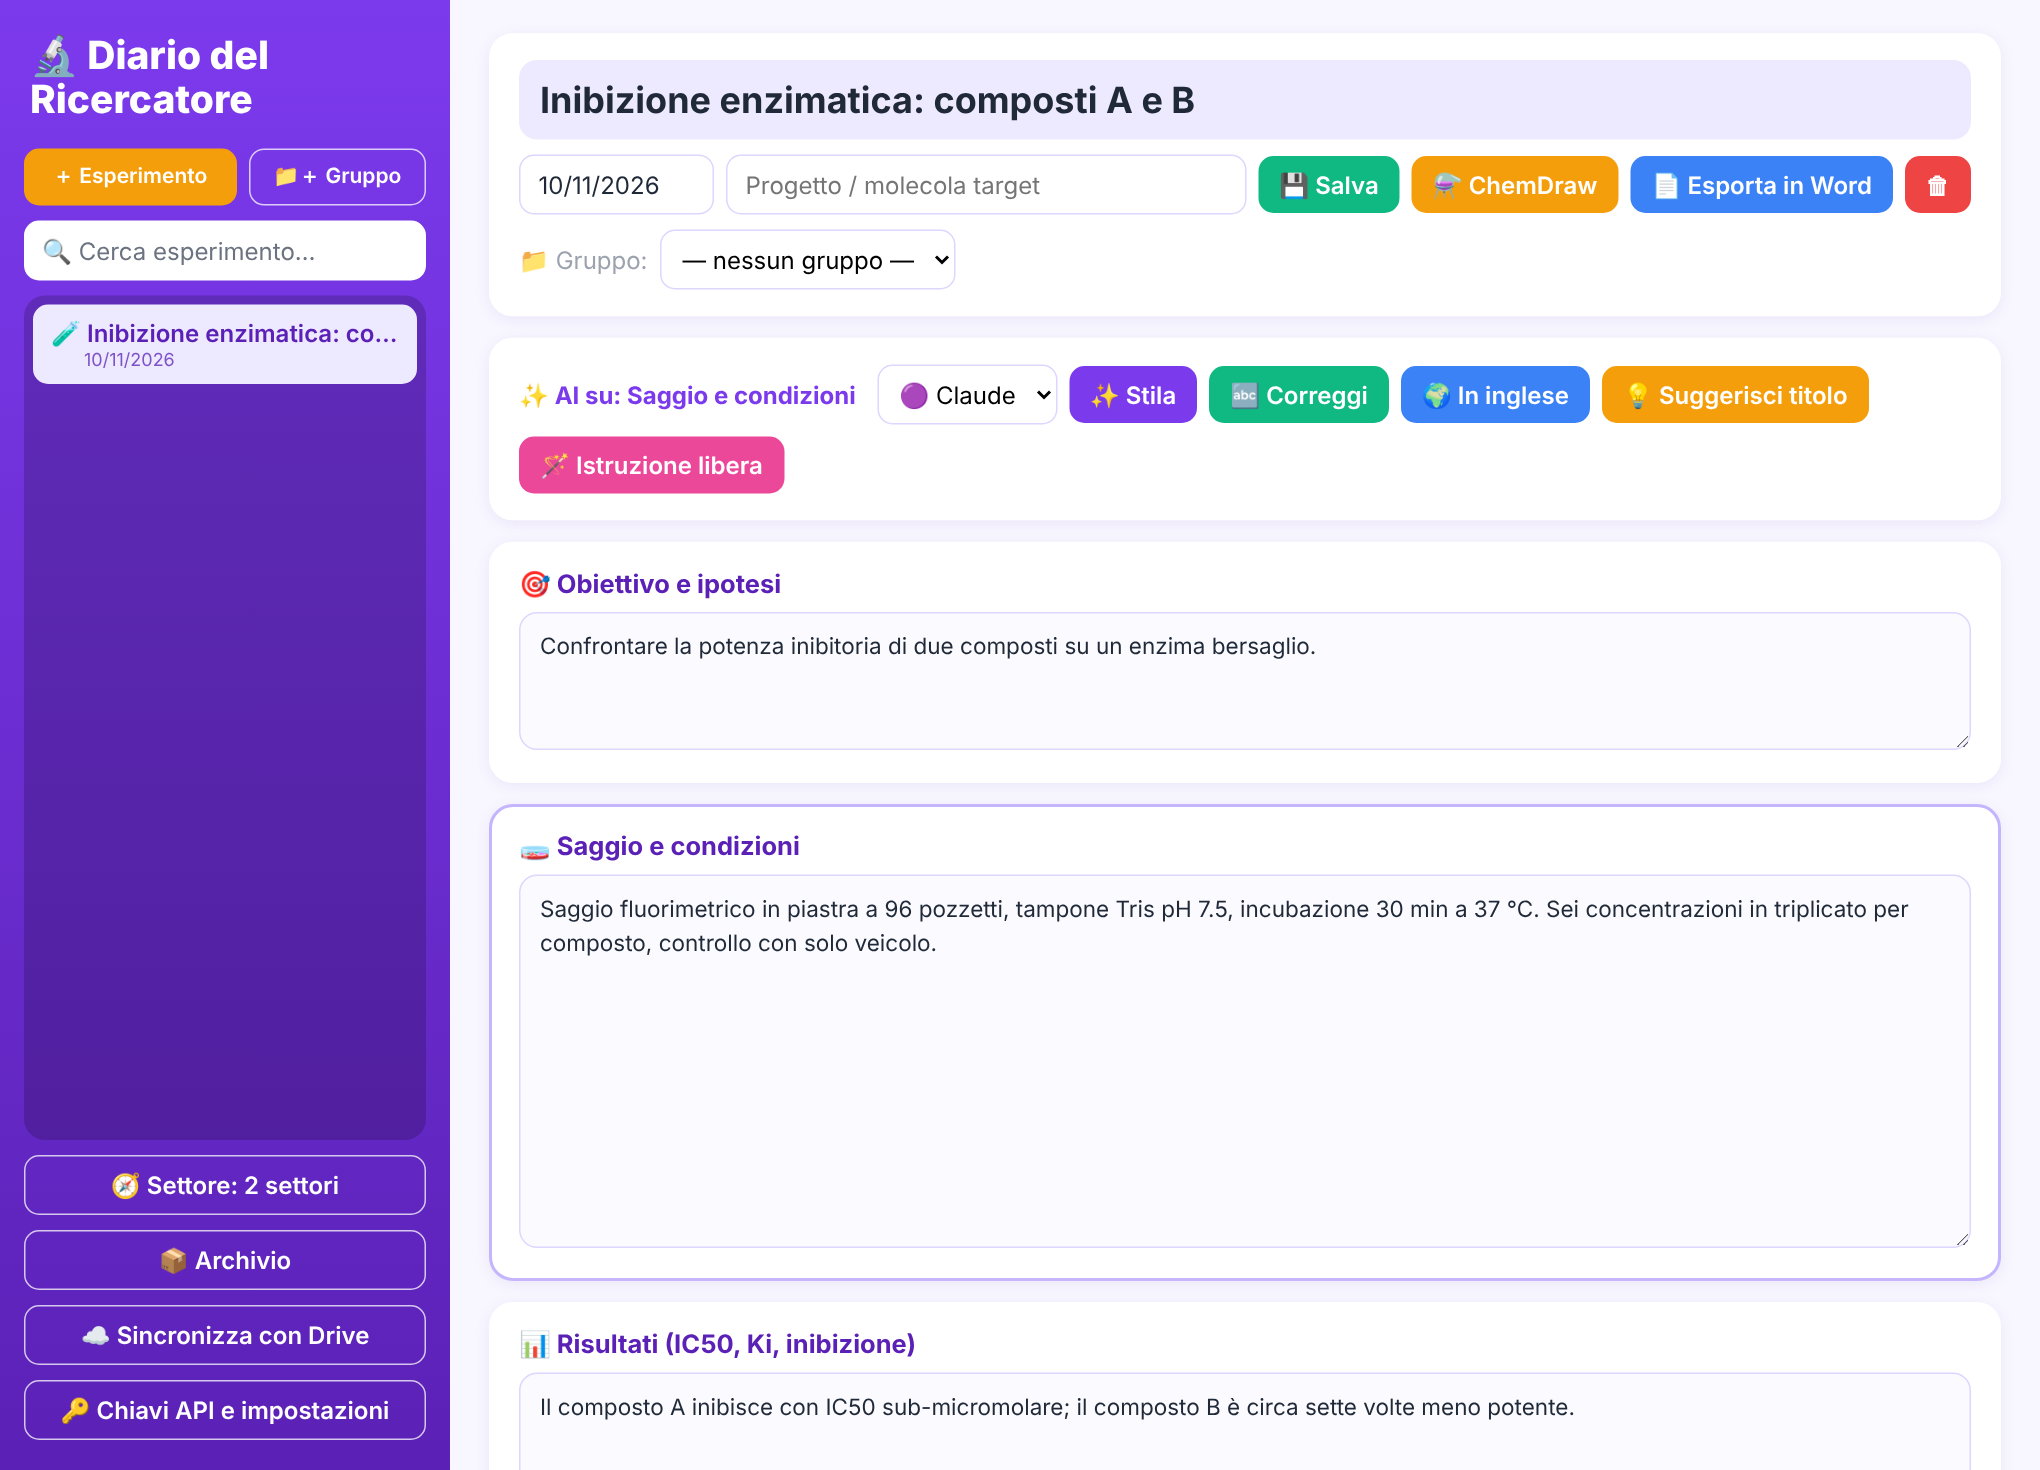
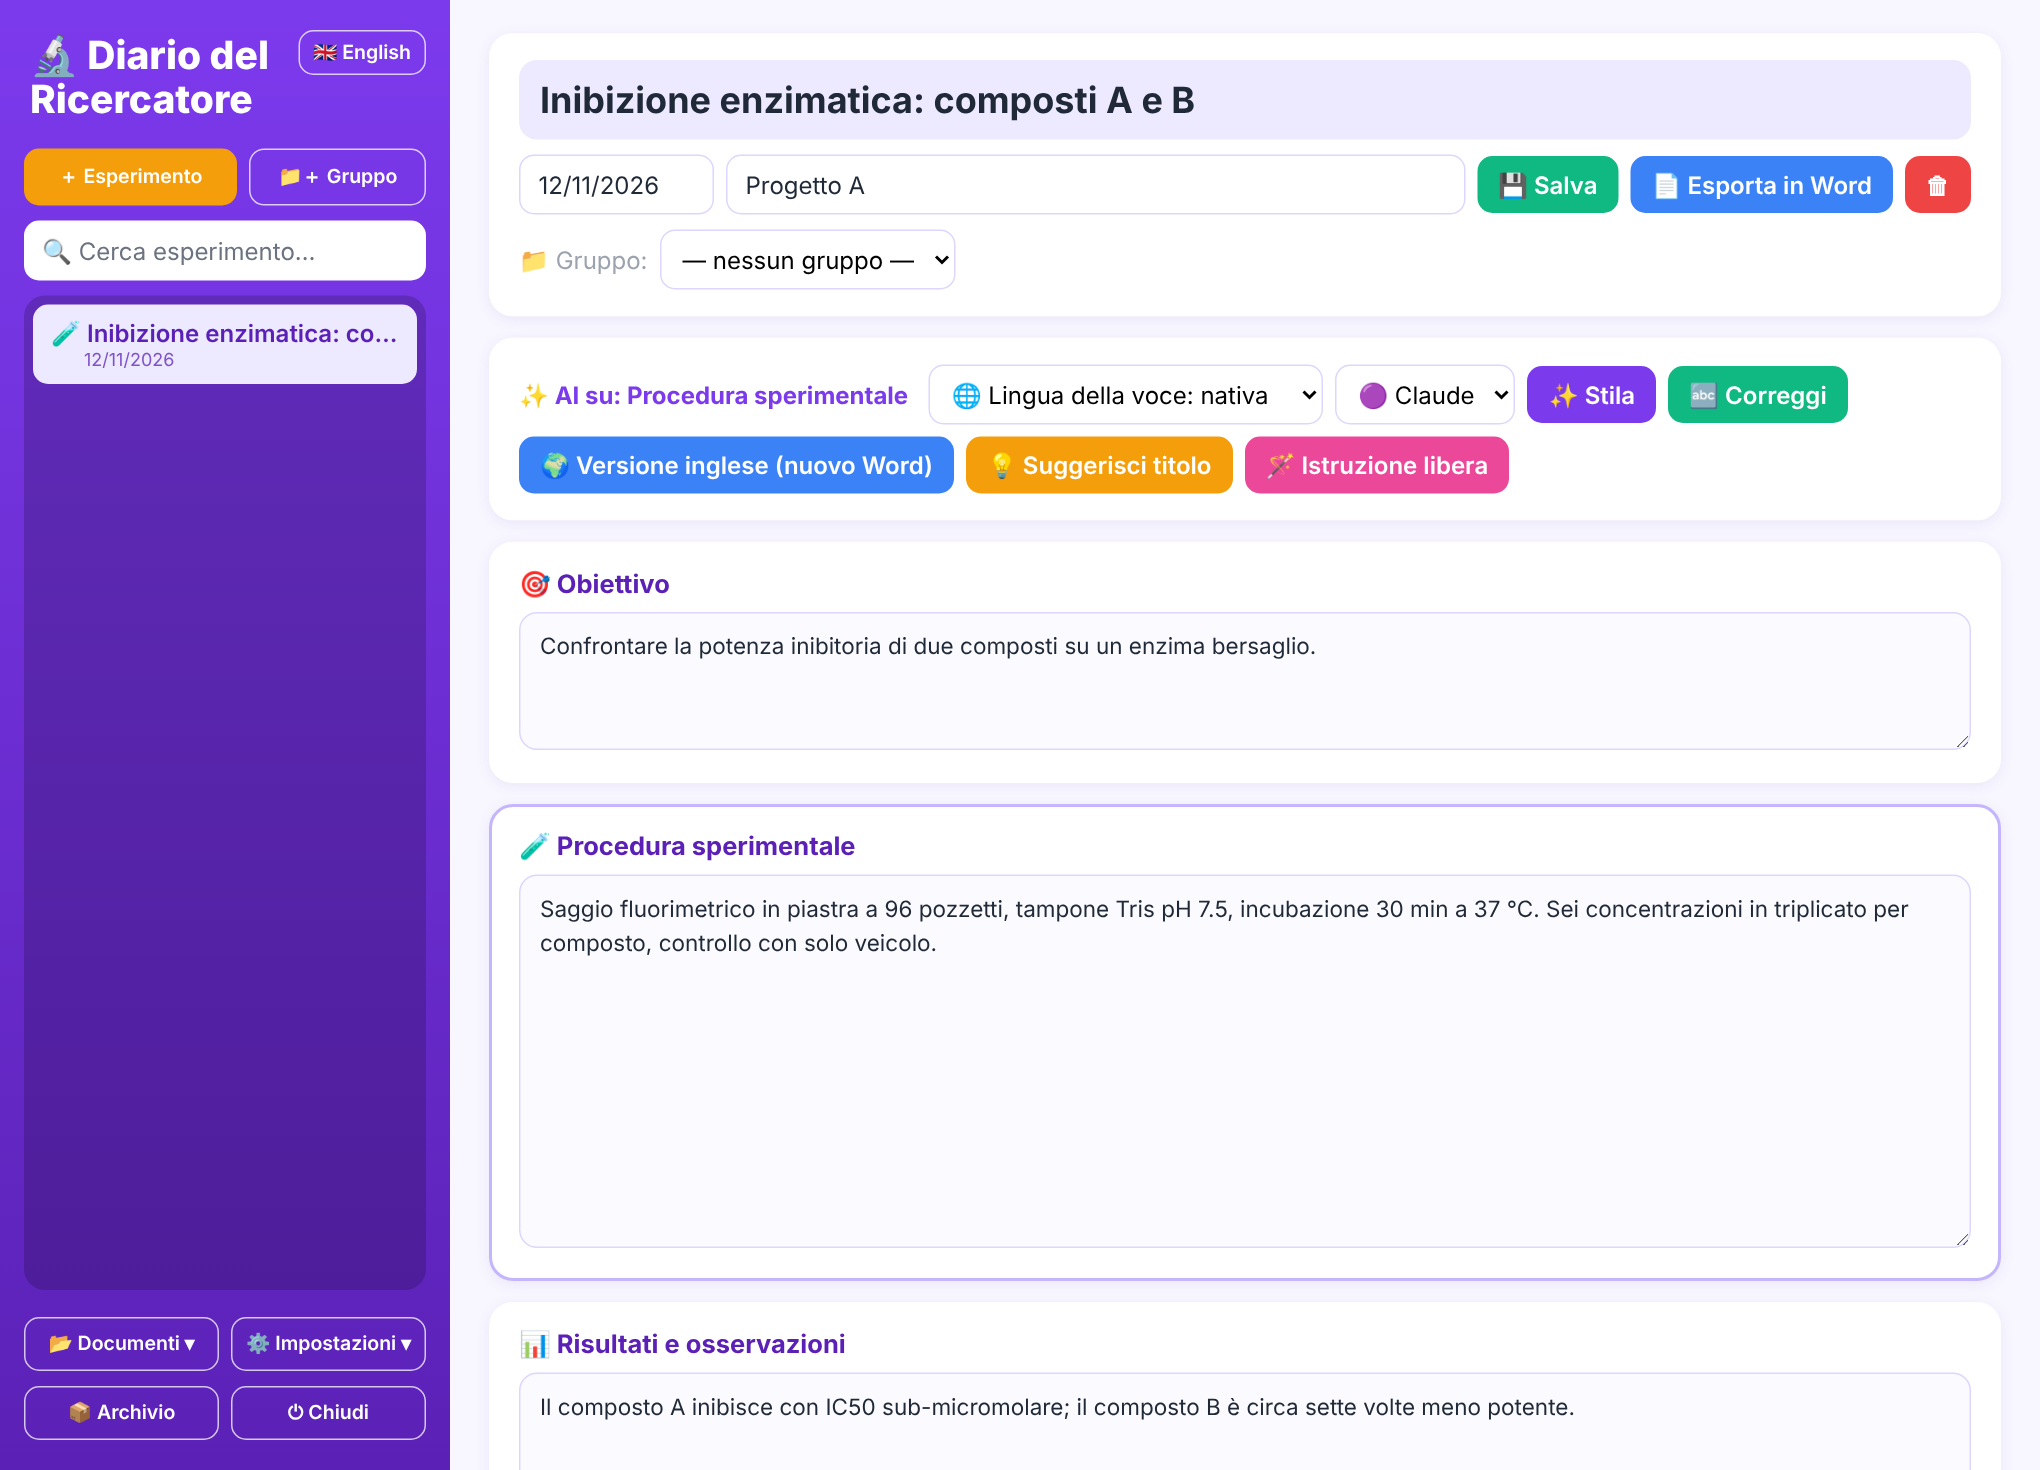
2.0 v

diff --git a/index.html b/index.html
@@ -104,8 +104,12 @@ footer .wrap{display:flex;gap:16px;justify-content:space-between;flex-wrap:wrap}
         <li>Sezioni e titoli pensati per il tuo settore</li>
         <li>Tabelle, curve e statistica già pronte</li>
         <li>Assistente di scrittura (Claude o Gemini) che non inventa dati</li>
-        <li>Esportazione in Word ben impaginata, con immagini e tabelle</li>
+        <li>Documento Word di ogni esperimento creato e aggiornato da solo, in cartelle ordinate per gruppo e sottogruppo</li>
+        <li>Un unico documento con tutti gli esperimenti di un progetto, quando serve</li>
+        <li>Scrivi nella tua lingua o in inglese; versione inglese in un documento a parte con un clic</li>
+        <li>Interfaccia in italiano o in inglese</li>
         <li>Allegati ChemDraw, disegno di molecole e sincronizzazione con Google Drive</li>
+        <li>Si aggiorna da solo: quando esce una versione nuova te lo dice e la installa</li>
         <li>Mac e Windows, open source (licenza MIT)</li>
       </ul>
     </div>
@@ -117,7 +121,7 @@ footer .wrap{display:flex;gap:16px;justify-content:space-between;flex-wrap:wrap}
   <h2>Uno strumento per ogni settore</h2>
   <p class="lead">Scegli il tuo campo al primo avvio: il Diario mostra gli strumenti che servono a te.</p>
   <div class="grid">
-    <div class="card"><span class="ic">⚗</span><h3>Chimica di sintesi</h3><p>Reagenti, equivalenti e rese, caratterizzazione (NMR, MS, p.f.), disegno di molecole e schemi ChemDraw.</p></div>
+    <div class="card"><span class="ic">⚗</span><h3>Chimica di sintesi</h3><p>Reagenti, equivalenti e rese, lastre TLC disegnate con gli Rf, caratterizzazione (NMR, MS, p.f.), disegno di molecole e schemi ChemDraw.</p></div>
     <div class="card"><span class="ic">💊</span><h3>Farmacologia e biochimica</h3><p>Dose-risposta con IC50/EC50 e intervalli di confidenza, cinetica enzimatica, scheda del saggio.</p></div>
     <div class="card"><span class="ic">🧬</span><h3>Biologia molecolare e cellulare</h3><p>Piastre a 96 pozzetti, qPCR (ΔΔCt), linee cellulari e anticorpi con lotto.</p></div>
     <div class="card"><span class="ic">🦠</span><h3>Microbiologia</h3><p>Conte CFU, MIC, curve di crescita con tempo di raddoppio.</p></div>
@@ -133,9 +137,25 @@ footer .wrap{display:flex;gap:16px;justify-content:space-between;flex-wrap:wrap}
   </div>
 </div></section>
 
-<section id="scarica" class="alt"><div class="wrap">
+<section id="lab" class="alt"><div class="wrap">
+  <div class="two">
+    <div>
+      <h2>Pensato per il laboratorio</h2>
+      <p class="lead" style="margin-bottom:16px">Chi segue il lavoro vede i documenti sempre aggiornati, senza chiedere niente a nessuno.</p>
+      <ul class="ticks">
+        <li><b>Per il supervisore:</b> condividi la cartella di Google Drive e i Word degli esperimenti si aggiornano mentre lo studente scrive</li>
+        <li><b>Ordine:</b> documenti e allegati nelle stesse cartelle dei gruppi che vedi nel Diario</li>
+        <li><b>Lastre TLC:</b> scegli le corsie, sposta le macchie con il mouse, e la lastra finisce nel documento</li>
+        <li><b>Fine progetto:</b> tutti gli esperimenti in un solo Word, in ordine di data</li>
+      </ul>
+    </div>
+    <div class="shot"><img src="assets/tlc.png" alt="Lastra TLC disegnata nel Diario: corsie, macchie e Rf" loading="lazy" width="1020" height="645"></div>
+  </div>
+</div></section>
+
+<section id="scarica"><div class="wrap">
   <h2>Scarica il Diario</h2>
-  <p class="lead">Gratuito, open source. Serve solo Python 3 (già presente su Mac, da installare su Windows).</p>
+  <p class="lead">Gratuito e open source. Scarichi, fai doppio clic e scrivi.</p>
   <div class="btns" style="justify-content:flex-start;margin-bottom:26px">
     <a class="btn primary" id="dl" href="https://github.com/Robinhud00/diario-ricercatore/archive/refs/heads/main.zip">⬇ Scarica (ZIP)</a>
     <a class="btn ghost" id="repo" href="https://github.com/Robinhud00/diario-ricercatore">Codice su GitHub</a>
@@ -143,17 +163,17 @@ footer .wrap{display:flex;gap:16px;justify-content:space-between;flex-wrap:wrap}
   <div class="steps">
     <div class="step"><h3>🍎 Mac</h3><ol>
       <li>Decomprimi lo ZIP.</li>
-      <li>Apri il Terminale, scrivi <code>cd </code> (con uno spazio dopo), trascina la cartella del Diario nella finestra e premi Invio.</li>
-      <li>Avvia il Diario:<pre>python3 diario_web.py</pre></li>
-      <li>Il browser si apre sul Diario.</li></ol>
-      <p class="note" style="margin:10px 0 0"><b>Per avviarlo con il doppio clic</b> (facoltativo), una volta sola nello stesso Terminale:</p><pre>chmod +x "Avvia Diario.command"</pre>
-      <p class="note" style="margin:0">Poi tasto destro su <code>Avvia Diario.command</code> → Apri. Dalla volta dopo basta il doppio clic.</p></div>
+      <li>Tasto destro su <code>Avvia Diario.command</code> → Apri (solo la prima volta; poi basta il doppio clic).</li>
+      <li>Il browser si apre sul Diario e sulla Scrivania compare l'icona <b>Diario del Ricercatore</b>: da lì in poi usi quella.</li></ol>
+      <p class="note" style="margin:10px 0 0"><b>Se il Mac dice che non hai i permessi per aprire il file:</b> apri il Terminale, scrivi <code>chmod +x </code> (con lo spazio), trascina dentro <code>Avvia Diario.command</code> e premi Invio. Poi ripeti il punto 2.</p></div>
     <div class="step"><h3>🪟 Windows</h3><ol>
-      <li>Installa Python da <a href="https://www.python.org/downloads/windows/">python.org</a>, spuntando «Add python.exe to PATH».</li>
       <li>Decomprimi lo ZIP.</li>
-      <li>Doppio clic su <code>Avvia Diario.bat</code>.</li></ol></div>
+      <li>Doppio clic su <code>Avvia Diario.bat</code>. Se manca Python prova a installarlo da solo (qualche minuto, una volta sola); se non ci riesce apre la pagina da cui scaricarlo.</li>
+      <li>Il browser si apre sul Diario e sul Desktop compare il collegamento <b>Diario del Ricercatore</b>.</li></ol>
+      <p class="note" style="margin:10px 0 0">Se Windows avvisa che il file non è riconosciuto: «Ulteriori informazioni» → «Esegui comunque».</p></div>
   </div>
-  <p class="note" style="margin-top:20px"><b>Privacy:</b> i tuoi esperimenti restano in una cartella sul tuo computer. Se attivi l'assistente di scrittura, il testo selezionato viene inviato al servizio che scegli (Claude o Gemini) con la tua chiave personale.</p>
+  <p class="note" style="margin-top:20px">Il Diario resta acceso in background: per spegnerlo usa il pulsante «Chiudi» in basso a sinistra. Quando esce una versione nuova compare un avviso e si aggiorna con un clic.</p>
+  <p class="note" style="margin-top:20px"><b>Privacy:</b> i tuoi esperimenti restano in una cartella sul tuo computer. All'avvio il Diario controlla su GitHub se c'è una versione nuova (non invia nessun dato). Se attivi l'assistente di scrittura, il testo selezionato viene inviato al servizio che scegli (Claude o Gemini) con la tua chiave personale.</p>
 </div></section>
 
 <section><div class="wrap">
